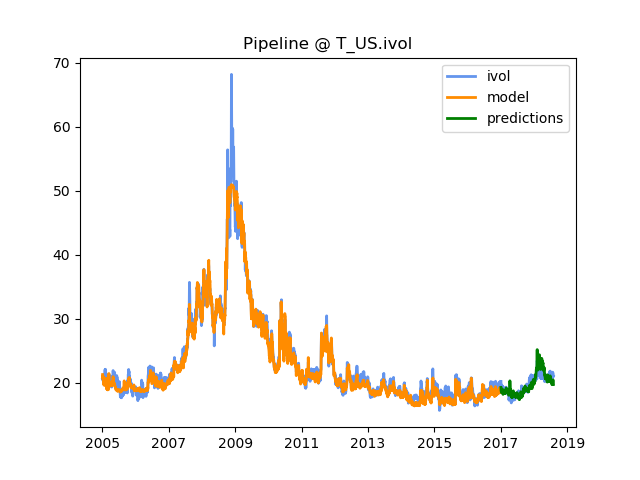
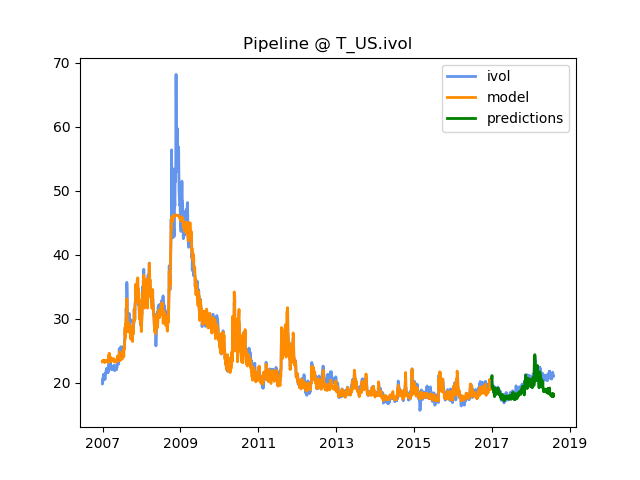
Add rolling zscore

diff --git a/ml/train.py b/ml/train.py
@@ -12,6 +12,7 @@ df_all = df_macro.join(df_sector, how='inner').join(df_gdx, how='inner').join(df
 
 security = 'T_US'
 target = security + '.ivol'
+start_training = pd.to_datetime('2007/01/01')
 end_training = pd.to_datetime('2017/01/01')
 
 # features
@@ -44,6 +45,28 @@ features_securities = [s + x
        for x in ['.ivol', '.putcallvolumeratio', '.shortintratio', '.spot']]
 
 df_all = df_all[features_securities + features_macro + features_sectors]
+
+# compute zscores
+print('Computing zscore...')
+for day in [30, 60, 90, 260]:
+    df_all[security + '.ivol.zscore' + str(day) + 'd'] = \
+        df_all[security + '.ivol'].rolling(day).apply( \
+              lambda x: (x[-1] - x.mean())/x.std(), raw=True) \
+              .fillna(method='bfill')
+
+# compute momentum
+print('Computing momentum...')
+for feature in list(df_all.columns):
+    if '.spot' in feature:
+        for day in [2, 5, 10]:
+            df_all[feature + '.momentum' + str(day) + 'd'] = \
+                df_all[feature].rolling(day).apply( \
+                      lambda x: (x[-1] - x.mean())/x.std(), raw=True) \
+                      .fillna(method='bfill')
+  
+df_all[security + '.ivol.zscore' + str(day) + 'd'] = \
+        df_all[security + '.ivol'].rolling(day).apply(lambda x: (x[-1] - x.mean())/x.std(), raw=True).fillna(method='bfill')
+
 df_all = df_all[np.isfinite(df_all[target])]
 df_dates = pd.to_datetime(df_all.reset_index()['date'])
 df_target = df_all[target].reset_index()
@@ -56,9 +79,9 @@ from sklearn.ensemble import RandomForestRegressor
 from sklearn.neural_network import MLPRegressor
 from sklearn.preprocessing import StandardScaler
 
-X_train = df_features[list(df_dates < end_training)].values
-y_train = df_target[list(df_dates < end_training)][target].values
-d_train = df_dates[df_dates < end_training]
+X_train = df_features[list((df_dates >= start_training) & (df_dates < end_training))].values
+y_train = df_target[list((df_dates >= start_training) & (df_dates < end_training))][target].values
+d_train = df_dates[list((df_dates >= start_training) & (df_dates < end_training))]
 X_test = df_features[list(df_dates >= end_training)].values
 y_test = df_target[list(df_dates >= end_training)][target].values
 d_test = df_dates[df_dates >= end_training]
@@ -69,14 +92,6 @@ clf = DecisionTreeRegressor(max_depth=8, min_samples_leaf=5, min_samples_split=5
 # random forest
 #clf = RandomForestRegressor(max_depth=8, n_estimators=20, max_leaf_nodes=50, n_jobs=-1)
 
-# neural network
-'''
-scaler = StandardScaler()
-scaler.fit_transform(X_train)
-scaler.transform(X_train)
-clf = MLPRegressor(hidden_layer_sizes=(1024, 1024), solver="sgd", activation="tanh",
-                   alpha=0.0001, batch_size=64, max_iter=10000, tol=0.00001, shuffle=True)
-'''
 # ************************************************************
 # neural network with tensorflow
 # ************************************************************
@@ -84,6 +99,8 @@ import tensorflow as tf
 import keras
 from keras.models import Sequential
 from keras.layers import Dense, Dropout
+from keras.layers.advanced_activations import ELU, PReLU
+from keras import regularizers
 from keras.wrappers.scikit_learn import KerasRegressor
 from sklearn.model_selection import cross_val_score
 from sklearn.model_selection import KFold
@@ -106,11 +123,11 @@ np.random.seed(seed)
 def baseline_model():
     # create model
     model = Sequential()
-    model.add(Dense(256, 
+    model.add(Dense(64, 
                     kernel_initializer='normal', 
                     activation='sigmoid'))
     model.add(Dropout(0.5))
-    model.add(Dense(64, 
+    model.add(Dense(32, 
                     kernel_initializer='normal', 
                     activation='sigmoid'))
     model.add(Dropout(0.5))
